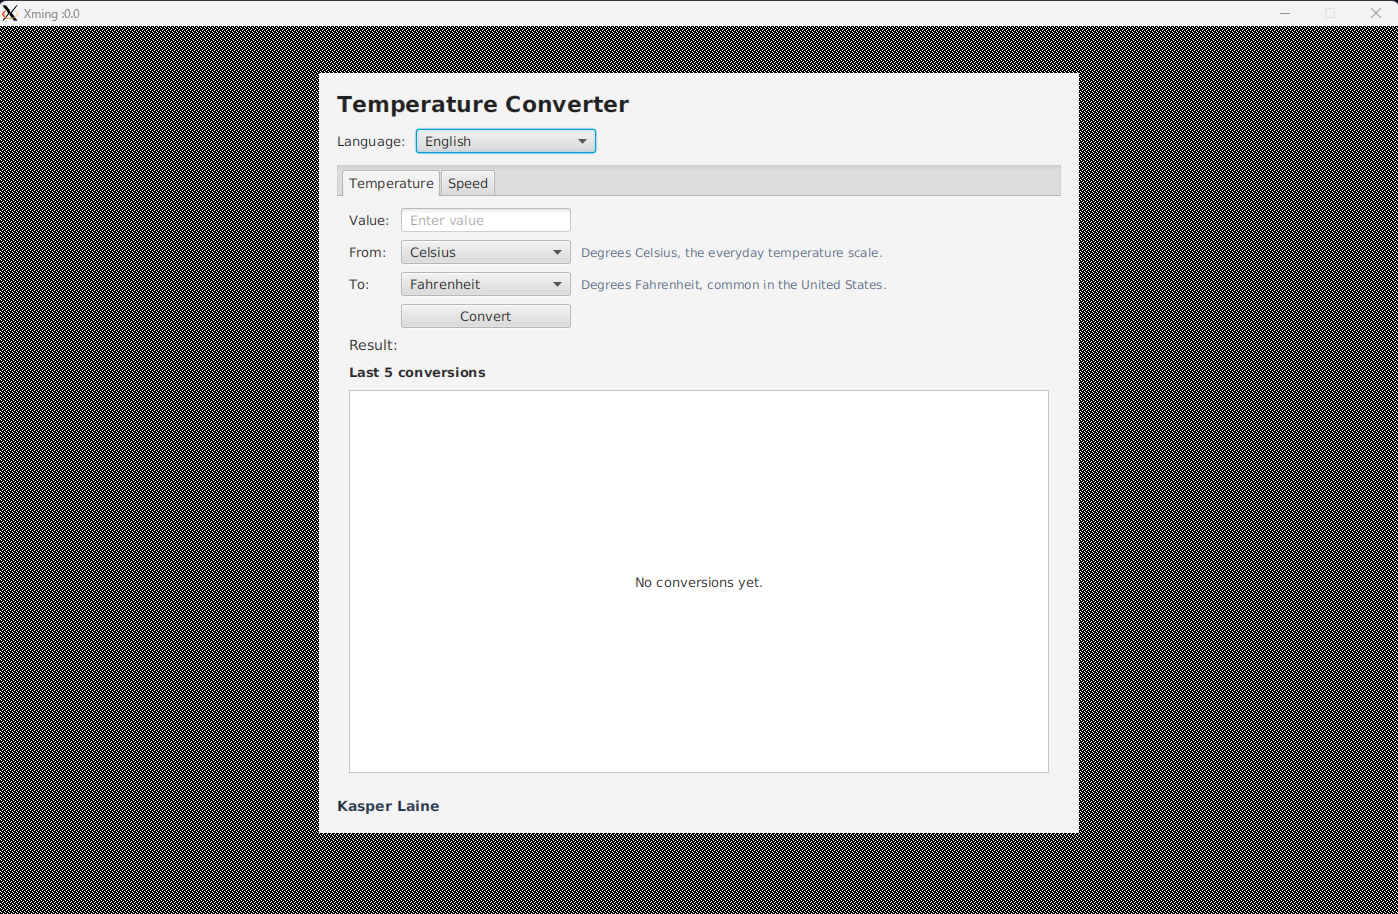
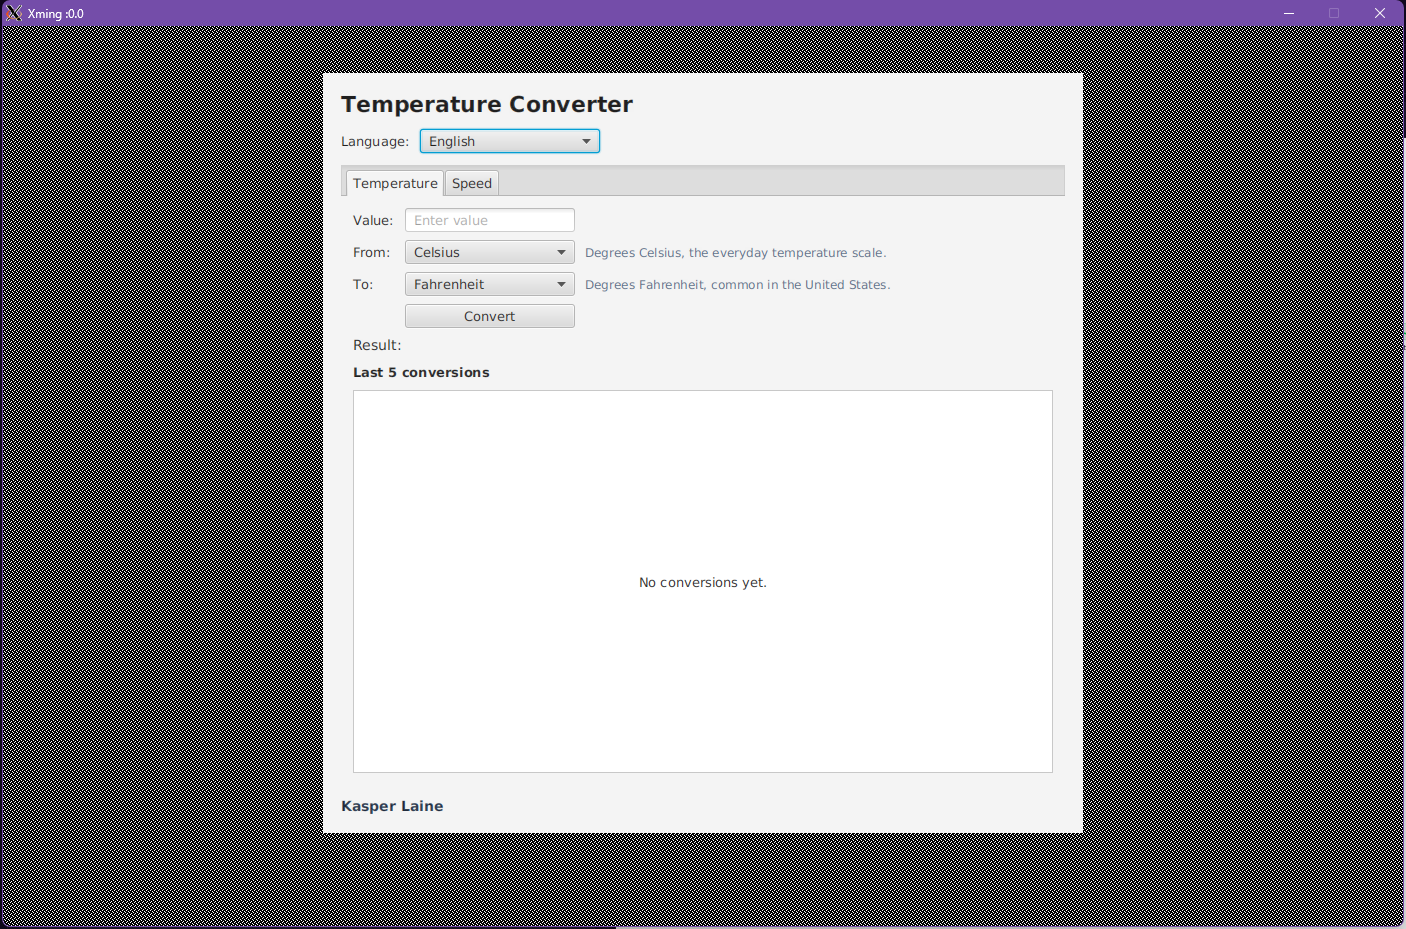
Week 5: document Jenkins and SonarQube pipeline with screenshots

diff --git a/README.md b/README.md
@@ -541,6 +541,68 @@ mvn clean verify sonar:sonar `
 
 The `java:S2115` finding about the passwordless embedded H2 database is suppressed on `DatabaseManager.getConnection` with a justification, because the database is a local file and is never exposed over a network.
 
+## 9. Week 5 In-class Assignment: SonarQube in the Jenkins Pipeline
+
+### Goal
+
+Week 5 integrates the SonarQube analysis into the Jenkins pipeline so that every build runs tests, coverage, static analysis, and the quality gate before the Docker image is built.
+
+### Pipeline stages
+
+The `Jenkinsfile` in the repository root runs the following stages:
+
+1. Checkout
+2. Build and test (`mvn -B clean verify`)
+3. Publish test results (JUnit)
+4. Publish coverage report (JaCoCo)
+5. SonarQube Analysis (`sonar-scanner` through `withSonarQubeEnv`)
+6. Quality Gate
+7. Build Docker Image
+8. Verify Image
+9. Deploy to Docker Hub
+
+The analysis stage uses the Jenkins `SonarQubeServer` configuration and the `SONAR_TOKEN` credential. The token is bound with `withCredentials` and never appears in the repository.
+
+SonarQube Community Build rejects loopback webhook URLs, so `waitForQualityGate` cannot be used on this local setup. The `Quality Gate` stage instead polls `/api/qualitygates/project_status` with the token and fails the build unless the status is `OK`.
+
+### Build result
+
+- Jenkins job: `Kasper_Laine_Week5_SonarQube`
+- Build: `#10`, result `SUCCESS`, duration 6 min 40 s
+- SonarQube quality gate: `OK`
+- 70 automated tests, all passing
+- Image: `junkkari/temperature-converter-gui:latest`
+- Pushed digest: `sha256:a5fb859572d6775615f1e2403a14aa96322f88868af885cc40ff64f531674ef3`
+
+### Screenshots
+
+Jenkins pipeline, all stages green:
+
+![Jenkins pipeline, Week 5](docs/jenkins-pipeline-week5.png)
+
+SonarQube dashboard for `otp1-temperature-converter`:
+
+![SonarQube dashboard, Week 5](docs/sonarqube-dashboard-week5.png)
+
+The image built by Jenkins, started under Xming. The student name is shown at the bottom of the window:
+
+![Temperature Converter under Xming, Week 5](docs/xming-week5.png)
+
+The Xming screenshot was produced by running the image built in the pipeline:
+
+```powershell
+docker run --rm -d --name tempconv-week5 `
+  -e DISPLAY=host.docker.internal:0.0 `
+  -e JAVA_TOOL_OPTIONS=-Dprism.order=sw `
+  junkkari/temperature-converter-gui:latest
+```
+
+### Local SonarQube notes
+
+- The server runs at `http://localhost:9000` with the embedded evaluation database.
+- `sonar.forceAuthentication` is enabled, so anonymous users cannot browse the dashboard; the analysis itself uses `SONAR_TOKEN`.
+- The Elasticsearch free-disk check is disabled locally because the laptop has less than the 10% free space the check requires.
+
 # Database Localization Approach
 
 ## Chosen approach: translation table
@@ -617,12 +679,15 @@ The GUI reads the latest speed calculations back from these tables and displays 
 │   ├── docker-xming-ar.png
 │   ├── jacoco-coverage.png
 │   ├── jacoco-default-package.png
+│   ├── jenkins-pipeline-week5.png
 │   ├── kubernetes-status.png
 │   ├── kubernetes-xming.png
 │   ├── localization-ar.png
 │   ├── localization-en.png
 │   ├── localization-ja.png
-│   └── surefire-tests.png
+│   ├── sonarqube-dashboard-week5.png
+│   ├── surefire-tests.png
+│   └── xming-week5.png
 ├── init.sql
 ├── src/
 │   ├── main/
